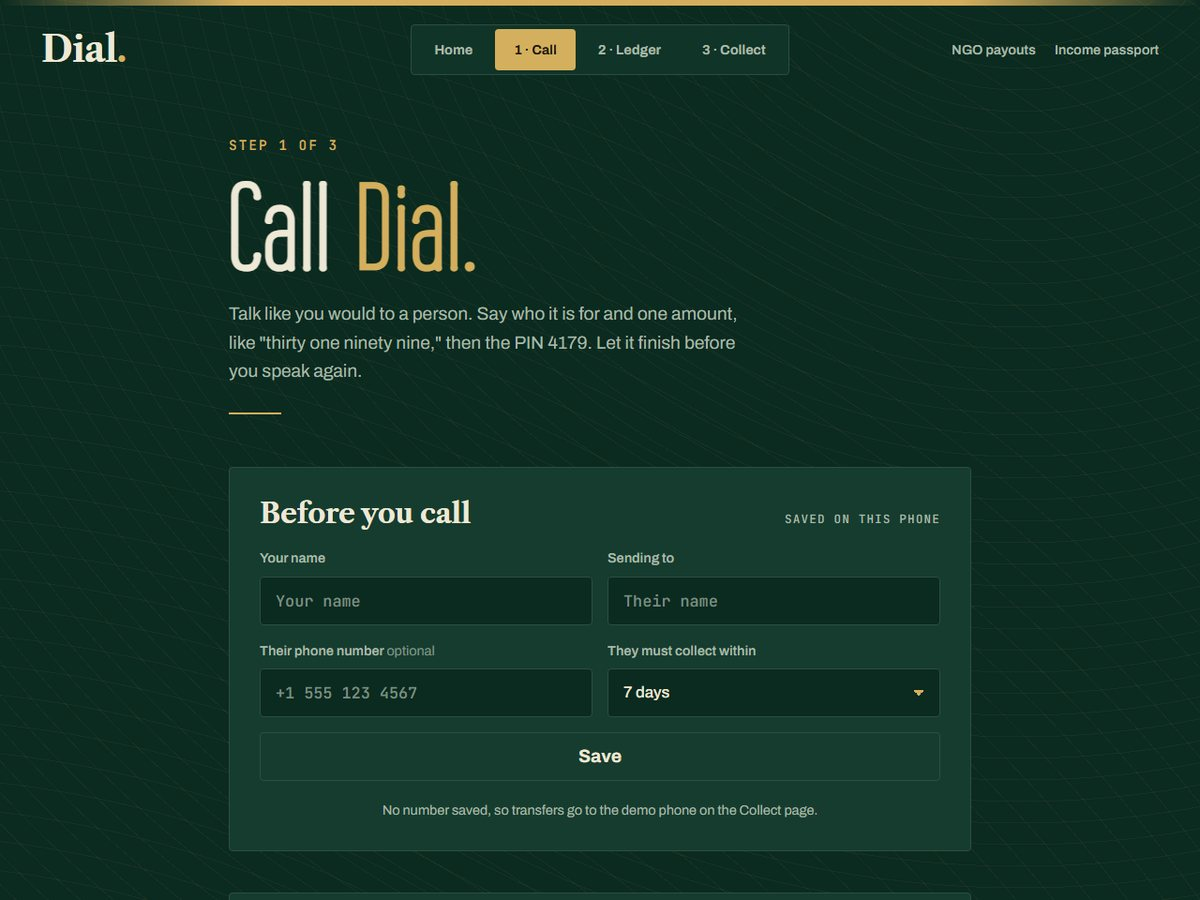
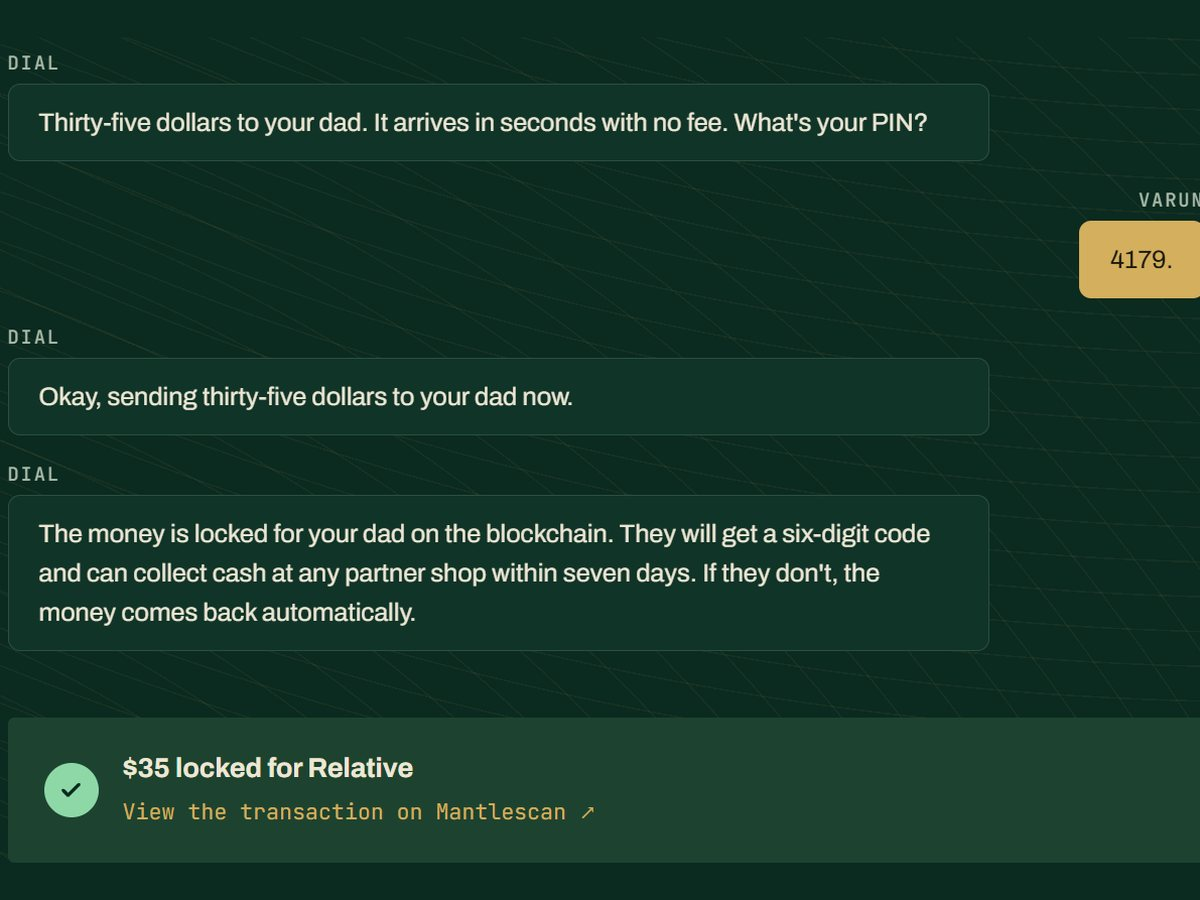
Dial gallery: home, the voice call, the relative's code, the shop payout

diff --git a/index.html b/index.html
@@ -24,7 +24,7 @@
 <link rel="preconnect" href="https://fonts.googleapis.com">
 <link rel="preconnect" href="https://fonts.gstatic.com" crossorigin>
 <link href="https://fonts.googleapis.com/css2?family=Cormorant+Garamond:ital,wght@1,500&family=Bricolage+Grotesque:opsz,wght@12..96,400&display=swap" rel="stylesheet">
-<link rel="stylesheet" href="css/style.css?v=760">
+<link rel="stylesheet" href="css/style.css?v=762">
 <noscript><style>.pane[hidden] { display: block !important; } .close { display: none !important; }</style></noscript>
 
 <script type="application/ld+json">
@@ -202,7 +202,9 @@
         <img class="main" src="images/dial-1.jpg" alt="Dial home page: send money home with one phone call" loading="lazy">
         <div class="thumbs">
           <button type="button" aria-pressed="true" aria-label="Photo 1"><img src="images/dial-1.jpg" alt="Dial home page: send money home with one phone call" loading="lazy"></button>
-          <button type="button" aria-pressed="false" aria-label="Photo 2"><img src="images/dial-2.jpg" alt="Dial call screen, where the sender talks to the voice agent" loading="lazy"></button>
+          <button type="button" aria-pressed="false" aria-label="Photo 2"><img src="images/dial-2.jpg" alt="The voice call: Dial confirms thirty-five dollars, takes the PIN, and locks the money on the blockchain" loading="lazy"></button>
+          <button type="button" aria-pressed="false" aria-label="Photo 3"><img src="images/dial-3.jpg" alt="The relative's text in Spanish with the 6-digit collection code" loading="lazy"></button>
+          <button type="button" aria-pressed="false" aria-label="Photo 4"><img src="images/dial-4.jpg" alt="The corner shop pays out 630 MXN after the code is entered, settled on-chain" loading="lazy"></button>
         </div>
       </figure>
       <p>Send money home by talking to a voice agent in your own language. The dollars lock on the Mantle blockchain in seconds, family picks up cash at a corner shop with a 6-digit code, and anything left uncollected is refunded automatically. No smartphone, bank or app needed on either side.</p>
@@ -318,6 +320,6 @@
 
 <div class="toast" role="status" aria-live="polite"></div>
 
-<script src="js/script.js?v=760"></script>
+<script src="js/script.js?v=762"></script>
 </body>
 </html>
